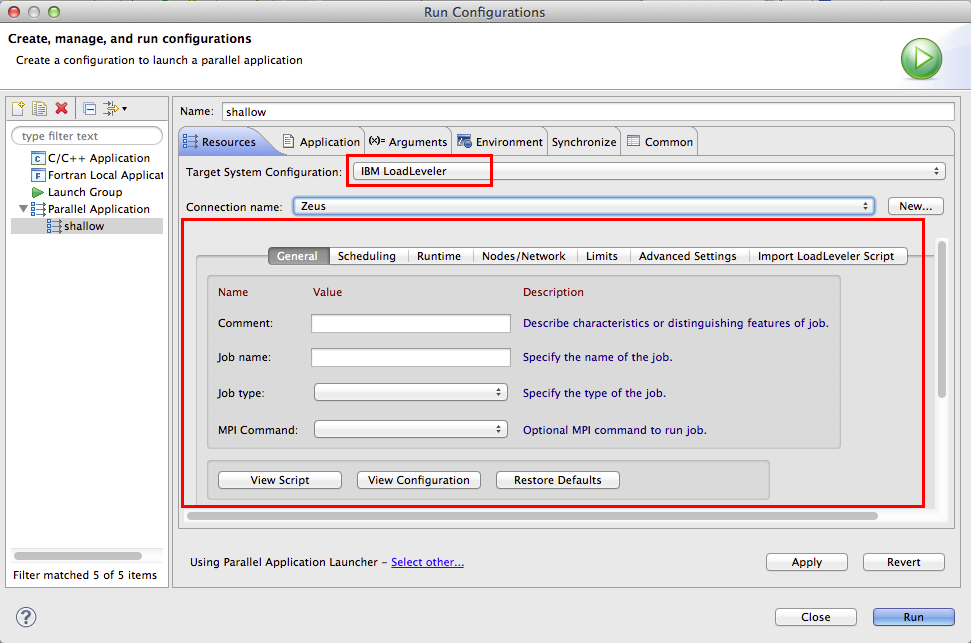
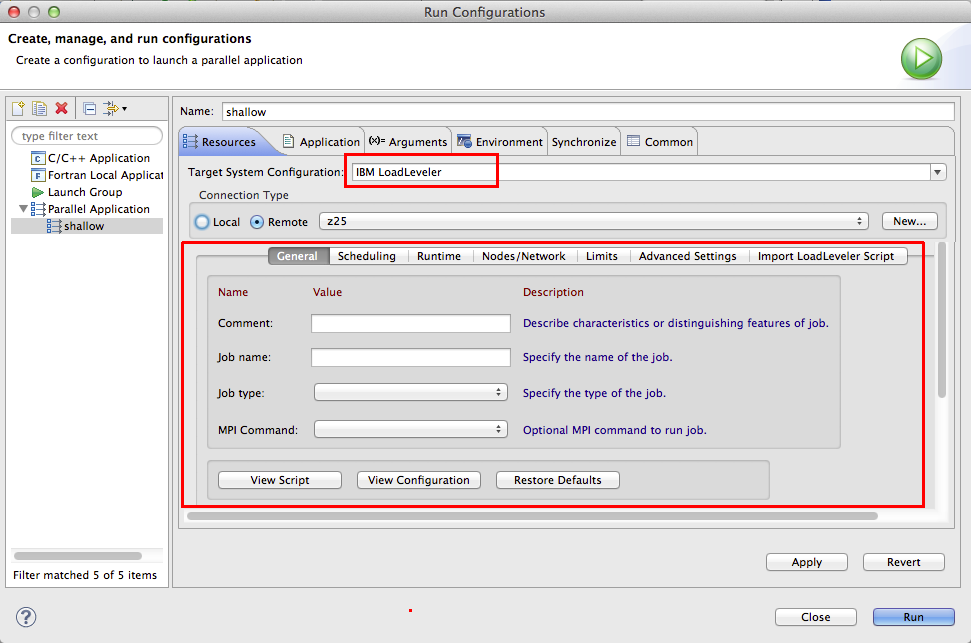
Bug 397588 update help for IBM LL

Changed region(s): [[0.1854, 0.2177, 0.9887, 0.4044], [0.1854, 0.8709, 0.4634, 0.902]]

diff --git a/core/org.eclipse.ptp.doc.user/html/rms/ibm-ll.html b/core/org.eclipse.ptp.doc.user/html/rms/ibm-ll.html
@@ -10,9 +10,6 @@
 <p>This section describes how to set up a run configuration using IBM LoadLeveler as a PTP target system configuration
 <ul>
 <li>For related information see the <a href="ibm-pe.html">IBM PE</a> target system configuration.
-<li>For information about the legacy (proxy-based) resource manager for IBM LoadLeveler from prior PTP releases,
-see
-  <a href="PLUGINS_ROOT/org.eclipse.ptp.rm.ibm.ll.doc.user/html/IBMLLMainHelp.html">IBM LoadLeveler proxy-based resource manager.</a>
 </ul>
 <p>As described in <a href="../03pRunConfig.html">Running Parallel Programs</a>, next create a run configuration
 via Run > Run Configurations ... and create a new <b>Parallel Application</b>.
@@ -25,7 +22,12 @@ For <b>Target System Configuration</b>, select <b>IBM LoadLeveler</b>
 for a <a href="../sync.html">Synchronized Project</a> or a remote project,
 it will be selected already.
 If you are launching a local application (on the same machine where Eclipse is running), 
-you must specify a connection back to the local machine.
+select <b>Local</b> for the <b>Connection Type</b>.
+
+<p><img src="../images/rms-ibmpe2.png">
+<blockquote>
+<p>See <a href="../remoteTools.html#create">Creating Remote Connections</a> and 
+<a href="../remoteTools.html#local">Local Connections</a>
 
 <p id=pe>After selecting IBM LoadLeveler, the Resources tab will be filled with information specific to this
 target configuration.  
